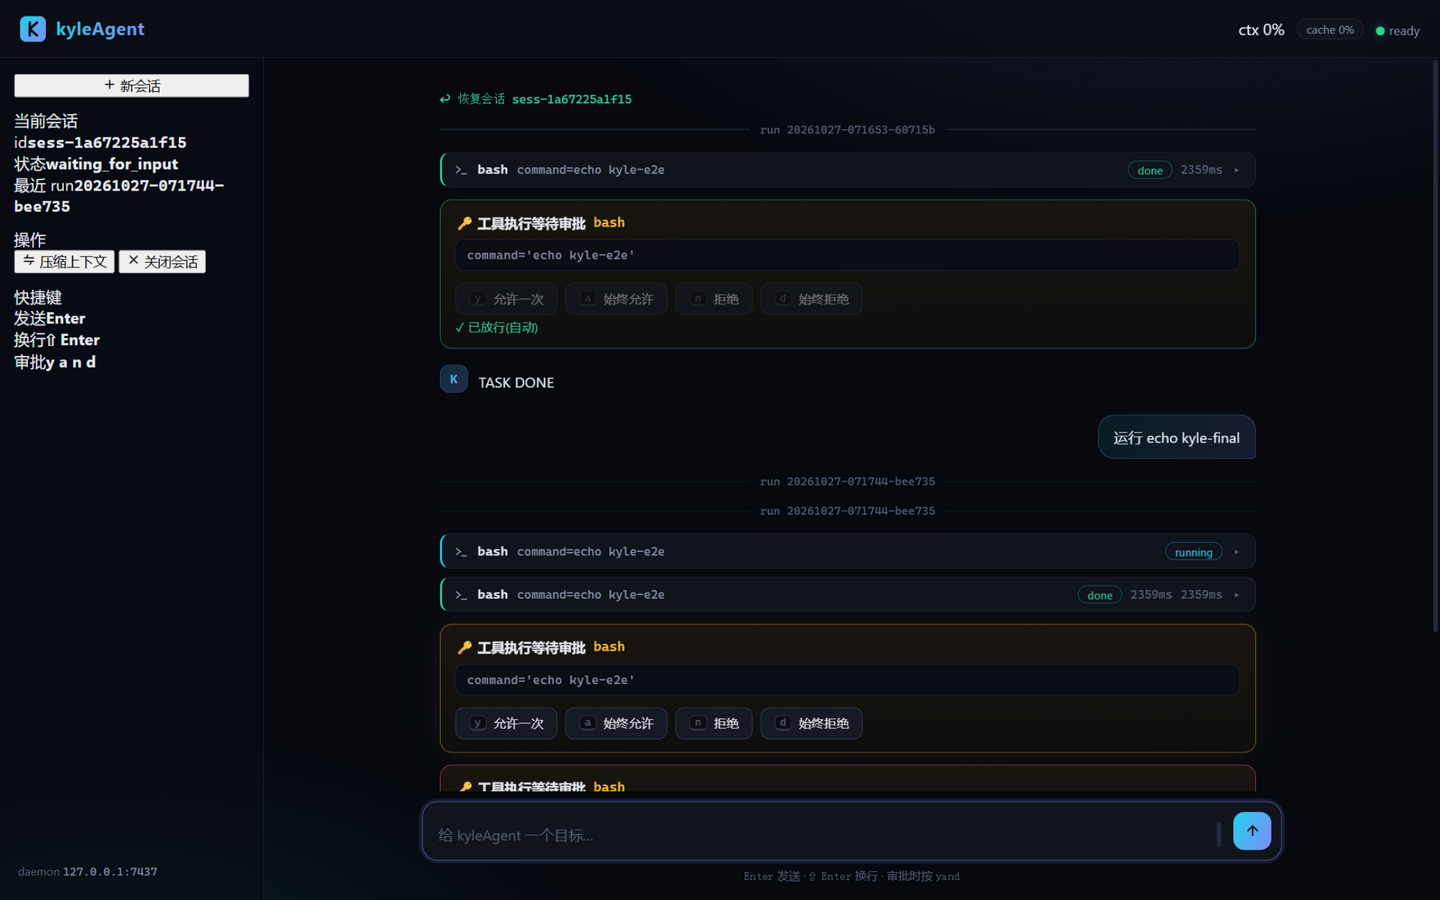
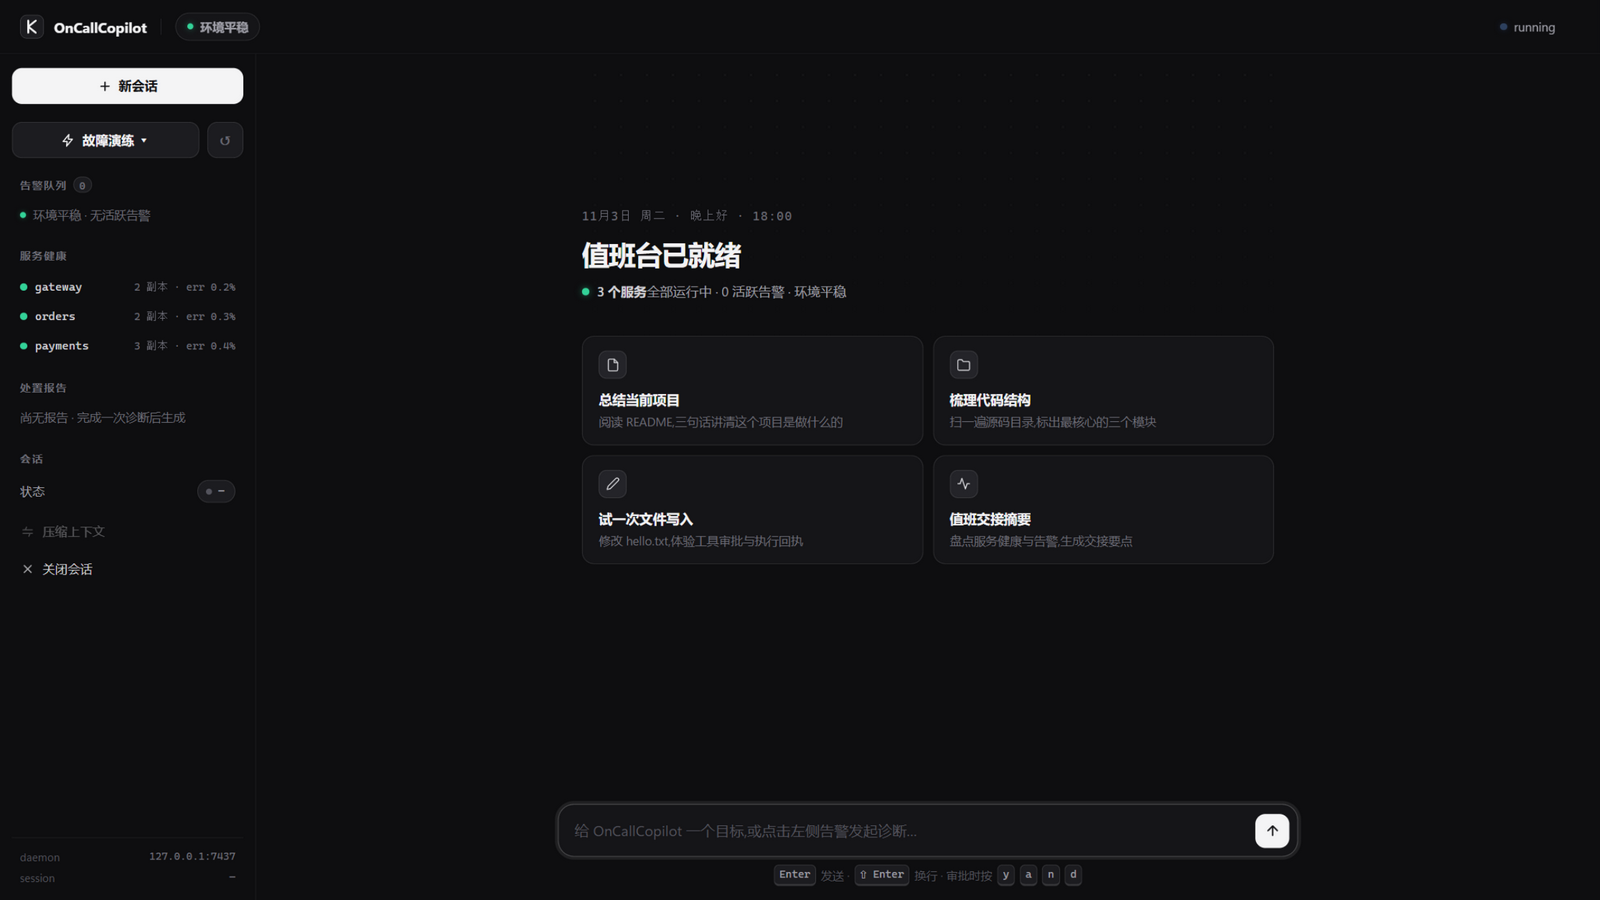
docs(webui): 视觉系统 v2 文档同步 + 无会话状态胶囊中性灰
问题:Web Console 前端已重做为「专业控制室」视觉(由 b76d990/1dbc1e7
顺带入库),但三份文档与 README 截图仍是旧版描述;另外无会话时状态
胶囊仍显示绿色 waiting 点,首启语义应为中性灰。

方案:
- AGENT.md/CLAUDE.md Web Console 条目补设计系统 v2 原则、no-cache
  静态资源、mdRender 表格支持
- README 概览与 Web Console 小节同步新特性描述
- docs/images/webui.png 重拍为 v2 首启干净态截图
- app.js setSessionUI:无会话时状态胶囊用中性灰点(无 waiting 类)

验证:浏览器实测空态/告警注入/对话流/审批卡/报告浮层/演练菜单六种
状态截图逐项核对;uv run pytest tests/unit -q 398 通过;
tests/unit/test_oncall_bridge_api.py + tests/integration/test_webui_bridge.py
4 通过;ruff/mypy 零违规。仅本地提交,未推送远端。

diff --git a/src/kyle_agent/webui/static/app.js b/src/kyle_agent/webui/static/app.js
@@ -79,7 +79,7 @@ function setSessionUI() {
     pill.className = "state-pill waiting";
     label.textContent = "waiting_for_input";
   } else {
-    pill.className = "state-pill waiting";
+    pill.className = "state-pill"; // 无会话:中性灰点
     label.textContent = "—";
   }
   $("#btnCompact").disabled = !state.sessionId || state.running;

diff --git a/README.md b/README.md
@@ -52,7 +52,7 @@ uv run kyle-webui &           # 终端 2:值班工作台 http://127.0.0.1:8080
 - **上下文引擎**：cl100k_base 真实 token 记账、消息级缓存断点与 cache_hit_rate 指标、跨会话记忆（SQLite FTS5 检索注入 + note/run 双向回写）、结构化 JSON 状态压缩与增量压缩（保留最近 N 轮）
 - **并行工具执行**：同批纯只读工具（read/list/task_get 等）信号量并发，含变更工具（bash/write_file）整批串行；结果严格按原顺序回填
 - **durable run**：每步快照 run_state.json，daemon 崩溃重启后自动从断点步续跑（工具 at-least-once，终态快照不重复恢复）
-- **Web Console**：浏览器图形前端（可选依赖），与 TUI/CLI 同一套 JSON-RPC 协议经 WS↔TCP 桥接器接入：流式 Markdown、可折叠工具卡、权限审批卡（键盘 y/a/n/d）、上下文水位与缓存命中率、子代理分组渲染
+- **Web Console**：浏览器图形前端（可选依赖），与 TUI/CLI 同一套 JSON-RPC 协议经 WS↔TCP 桥接器接入：值班台空态（环境摘要 + 建议卡）、流式 Markdown（含表格）、可折叠工具卡、权限审批卡（键盘 y/a/n/d）、上下文水位与缓存命中率、子代理分组渲染
 - **Textual TUI**：主前端，实时渲染 LLM 流、可折叠工具调用块、内联权限审批卡片、斜杠命令自动补全、上下文水位显示
 
 ## 架构
@@ -255,8 +255,12 @@ uv run kyle-webui              # 终端 2:桥接器,默认 http://127.0.0.1:8080
 打开 <http://127.0.0.1:8080> 即可使用。桥接器(`src/kyle_agent/webui/bridge.py`)
 对每条浏览器 WebSocket 建立一条到 daemon 的 TCP 连接并双向中继——不解析、
 不改写协议,协议契约仍由 `core/bus/` 模型单源生成。前端无构建步骤(原生
-HTML/CSS/JS),支持流式 Markdown、工具卡片、审批快捷键、上下文水位与
-断线自动重连。
+HTML/CSS/JS),支持流式 Markdown(含表格)、可折叠工具卡片、审批快捷键、
+值班台空态、告警/审批/报告浮层、上下文水位与断线自动重连。
+
+视觉系统「专业控制室」:中性石墨暗色,白色是唯一行动色(主按钮/焦点环/发送),
+彩色只表达状态语义(绿=健康、琥珀=待审批、红=告警);静态资源带
+`Cache-Control: no-cache`,改完前端刷新即生效。
 
 ![kyleAgent Web Console](docs/images/webui.png)
 

diff --git a/AGENT.md b/AGENT.md
@@ -97,6 +97,12 @@ Beyond the staged S0–S7 base, the runtime now ships:
   single-page frontend (optional deps `[webui]`, entry `kyle-webui`). The bridge
   never parses or rewrites protocol messages; frontend has no build step.
   CI installs `--extra webui`; E2E coverage in `tests/integration/test_webui_bridge.py`.
+  Design system v2 "control-room": neutral graphite dark, white is the only action
+  color (primary buttons/focus ring/send), status colors are semantic only
+  (green=healthy, amber=approval, red=alert). Bridge serves `/` and `/static` with
+  `Cache-Control: no-cache` (browsers must revalidate after asset changes).
+  Frontend `mdRender` supports headings/lists/fences/links and pipe tables (report
+  overlay wraps content in `.assistant-text` to reuse table styles).
 
 Docs rule: every functional change updates this file and README together.
 

diff --git a/CLAUDE.md b/CLAUDE.md
@@ -97,6 +97,12 @@ Beyond the staged S0–S7 base, the runtime now ships:
   single-page frontend (optional deps `[webui]`, entry `kyle-webui`). The bridge
   never parses or rewrites protocol messages; frontend has no build step.
   CI installs `--extra webui`; E2E coverage in `tests/integration/test_webui_bridge.py`.
+  Design system v2 "control-room": neutral graphite dark, white is the only action
+  color (primary buttons/focus ring/send), status colors are semantic only
+  (green=healthy, amber=approval, red=alert). Bridge serves `/` and `/static` with
+  `Cache-Control: no-cache` (browsers must revalidate after asset changes).
+  Frontend `mdRender` supports headings/lists/fences/links and pipe tables (report
+  overlay wraps content in `.assistant-text` to reuse table styles).
 
 Docs rule: every functional change updates this file and README together.
 
